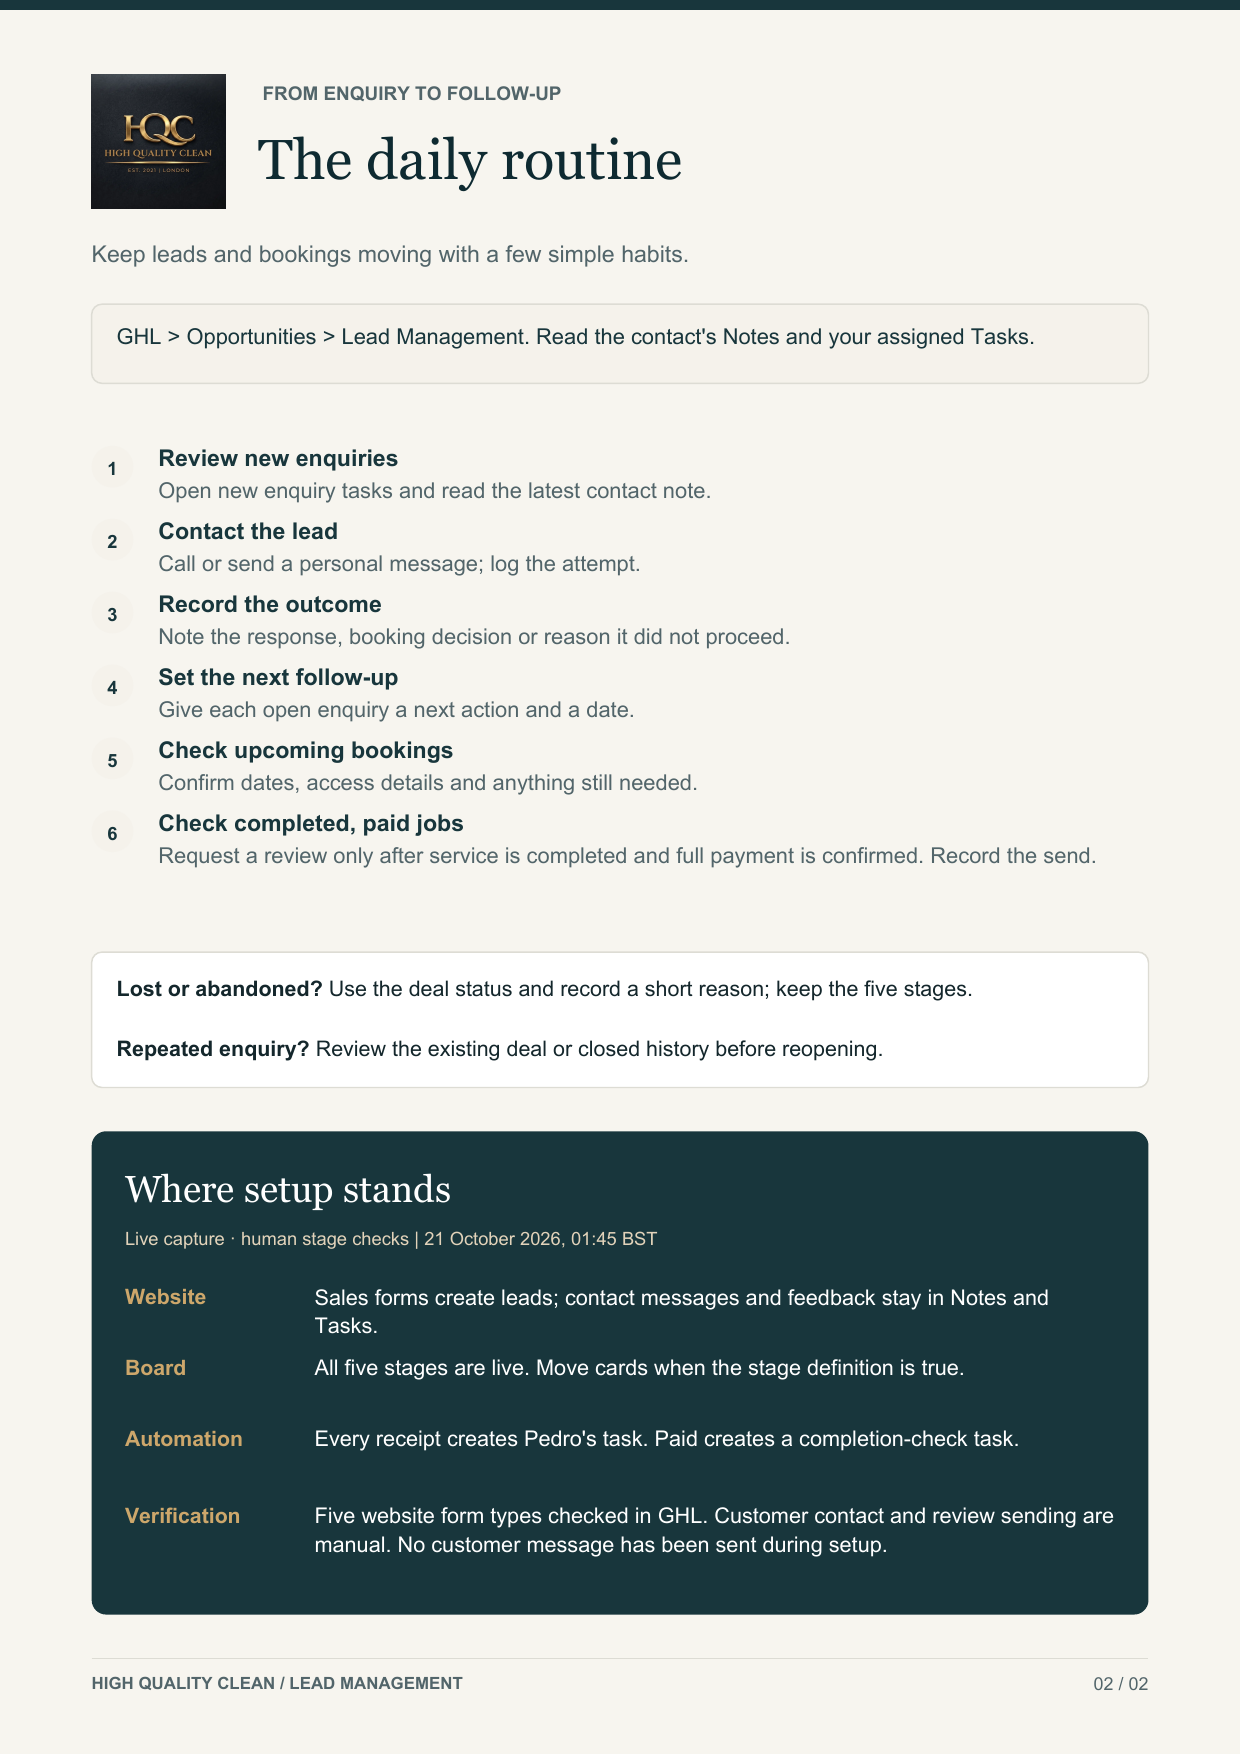
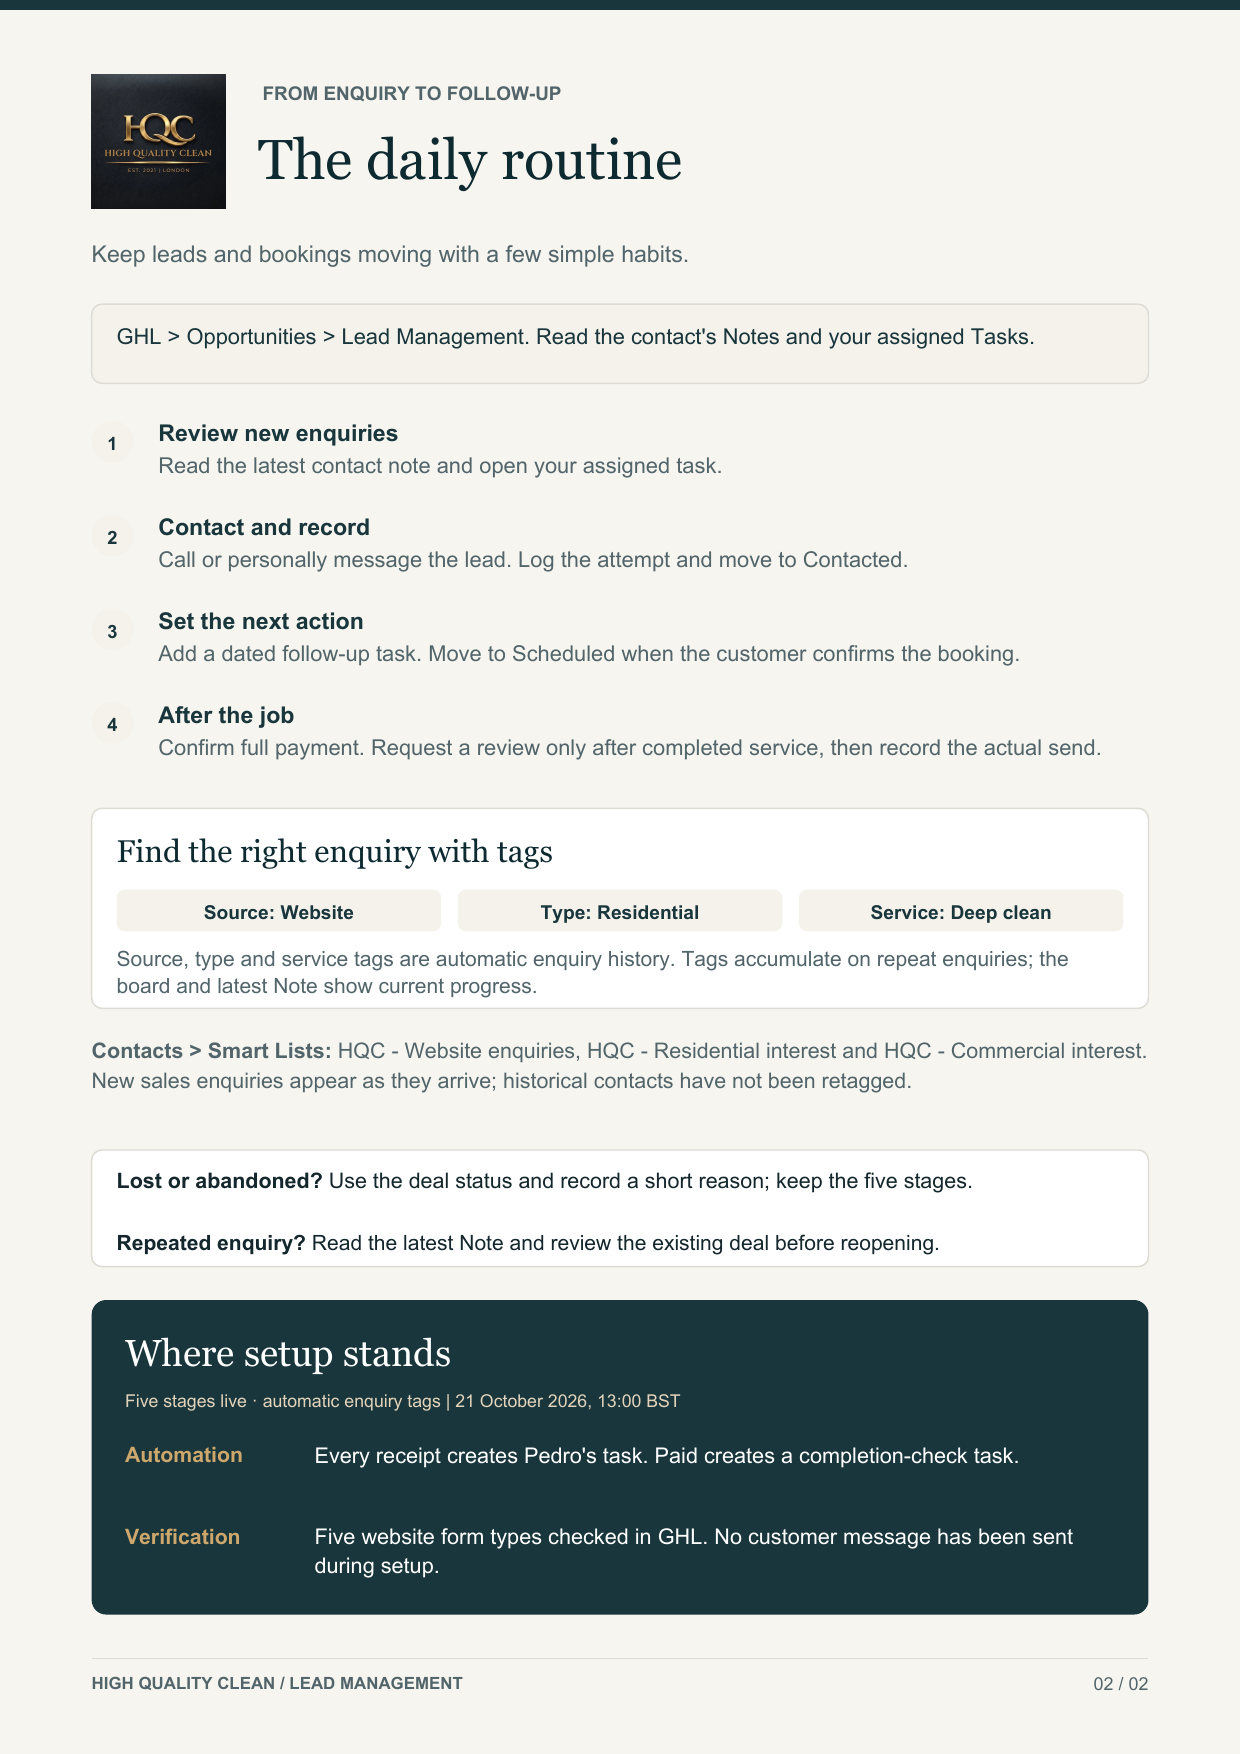
Document verified enquiry tags and Pedro saved views

diff --git a/scripts/reports/hqc_lead_management_guide_20261021.py b/scripts/reports/hqc_lead_management_guide_20261021.py
@@ -60,8 +60,8 @@ RULE = HexColor("#dddcd4")
 WIDTH, HEIGHT = A4
 MARGIN = 44
 CONTENT = WIDTH - 2 * MARGIN
-STATUS = "Live capture · human stage checks"
-SNAPSHOT = "21 October 2026, 01:45 BST"
+STATUS = "Five stages live · automatic enquiry tags"
+SNAPSHOT = "21 October 2026, 13:00 BST"
 
 STAGES = [
     ("New Lead", "New Lead", "A new enquiry needs attention. Check the details and record who will follow up."),
@@ -72,20 +72,15 @@ STAGES = [
 ]
 
 ROUTINE = [
-    ("Review new enquiries", "Open new enquiry tasks and read the latest contact note."),
-    ("Contact the lead", "Call or send a personal message; log the attempt."),
-    ("Record the outcome", "Note the response, booking decision or reason it did not proceed."),
-    ("Set the next follow-up", "Give each open enquiry a next action and a date."),
-    ("Check upcoming bookings", "Confirm dates, access details and anything still needed."),
-    ("Check completed, paid jobs", "Request a review only after service is completed and full payment is confirmed. Record the send."),
+    ("Review new enquiries", "Read the latest contact note and open your assigned task."),
+    ("Contact and record", "Call or personally message the lead. Log the attempt and move to Contacted."),
+    ("Set the next action", "Add a dated follow-up task. Move to Scheduled when the customer confirms the booking."),
+    ("After the job", "Confirm full payment. Request a review only after completed service, then record the actual send."),
 ]
 
-# Fresh provider UI/API readback and reserved-fixture public website checks.
 SETUP = [
-    ("Website", "Sales forms create leads; contact messages and feedback stay in Notes and Tasks."),
-    ("Board", "All five stages are live. Move cards when the stage definition is true."),
     ("Automation", "Every receipt creates Pedro's task. Paid creates a completion-check task."),
-    ("Verification", "Five website form types checked in GHL. Customer contact and review sending are manual. No customer message has been sent during setup."),
+    ("Verification", "Five website form types checked in GHL. No customer message has been sent during setup."),
 ]
 
 LAYOUT_CHECKS: list[dict] = []
@@ -225,29 +220,42 @@ def page_two(c):
               MARGIN+12, 155, CONTENT-24, size=10.5, leading=14,
               colour=NAVY, max_height=29)
 
-    top = 213
+    top = 201
     for i, (title, action) in enumerate(ROUTINE):
         number(c, str(i+1), MARGIN, top+1, 20, filled=False)
         paragraph(c, title, 76, top, CONTENT-32, size=11.1, leading=14,
                   font="BodyBold", colour=NAVY, max_height=15)
         paragraph(c, action, 76, top+16, CONTENT-32, size=10.5, leading=14,
                   colour=SLATE, max_height=29)
-        top += 35 if i < 5 else 49
+        top += 45
 
-    rect(c, MARGIN, 457, CONTENT, 65, white, radius=5, stroke=RULE)
+    rect(c, MARGIN, 388, CONTENT, 96, white, radius=5, stroke=RULE)
+    paragraph(c, "Find the right enquiry with tags", MARGIN+12, 399, CONTENT-24,
+              size=15, leading=19, font="Display", colour=MIDNIGHT, max_height=20)
+    chip_gap = 8
+    chip_width = (CONTENT-24-2*chip_gap)/3
+    for i, label in enumerate(["Source: Website", "Type: Residential", "Service: Deep clean"]):
+        x = MARGIN+12+i*(chip_width+chip_gap)
+        rect(c, x, 427, chip_width, 20, MIST, radius=4)
+        paragraph(c, label, x+5, 432, chip_width-10, size=9.2, leading=11,
+                  font="BodyBold", colour=NAVY, max_height=12, align=TA_CENTER)
+    paragraph(c, "Source, type and service tags are automatic enquiry history. Tags accumulate on repeat enquiries; the board and latest Note show current progress.",
+              MARGIN+12, 454, CONTENT-24, size=10.1, leading=13, colour=SLATE, max_height=27)
+    paragraph(c, "<b>Contacts &gt; Smart Lists:</b> HQC - Website enquiries, HQC - Residential interest and HQC - Commercial interest. New sales enquiries appear as they arrive; historical contacts have not been retagged.",
+              MARGIN, 498, CONTENT, size=10.3, leading=14, colour=SLATE, max_height=43)
+
+    rect(c, MARGIN, 552, CONTENT, 56, white, radius=5, stroke=RULE)
     paragraph(c, "<b>Lost or abandoned?</b> Use the deal status and record a short reason; keep the five stages.",
-              MARGIN+12, 468, CONTENT-24, size=10.3, leading=14, max_height=29)
-    paragraph(c, "<b>Repeated enquiry?</b> Review the existing deal or closed history before reopening.",
-              MARGIN+12, 497, CONTENT-24, size=10.3, leading=14, max_height=15)
+              MARGIN+12, 560, CONTENT-24, size=10.3, leading=14, max_height=29)
+    paragraph(c, "<b>Repeated enquiry?</b> Read the latest Note and review the existing deal before reopening.",
+              MARGIN+12, 590, CONTENT-24, size=10.1, leading=13, max_height=14)
 
-    rect(c, MARGIN, 543, CONTENT, 232, NAVY, radius=7)
-    paragraph(c, "Where setup stands", MARGIN+16, 559, CONTENT-32,
+    rect(c, MARGIN, 624, CONTENT, 151, NAVY, radius=7)
+    paragraph(c, "Where setup stands", MARGIN+16, 638, CONTENT-32,
               size=18, leading=23, font="Display", colour=white, max_height=24)
-    paragraph(c, f"{STATUS}  |  {SNAPSHOT}", MARGIN+16, 589, CONTENT-32,
-              size=8.8, leading=12, colour=HexColor("#e2d3ba"), max_height=13)
-    row_tops = [616, 650, 684, 721]
-    row_heights = [29, 29, 29, 42]
-    for (label, description), top, height in zip(SETUP, row_tops, row_heights):
+    paragraph(c, f"{STATUS}  |  {SNAPSHOT}", MARGIN+16, 667, CONTENT-32,
+              size=8.5, leading=11, colour=HexColor("#e2d3ba"), max_height=12)
+    for (label, description), top, height in zip(SETUP, [692, 731], [29, 29]):
         paragraph(c, label, MARGIN+16, top, 85, size=10.2, leading=13.5,
                   font="BodyBold", colour=GOLD, max_height=15)
         paragraph(c, description, MARGIN+107, top, CONTENT-123,
@@ -292,9 +300,9 @@ def validate(pngs: list[Path]) -> dict:
                          "Full payment has been received and confirmed", "A deposit does not count",
                          "an automatic form reply does not count", "a requested service date does not count",
                          "a review request has actually been sent", "Repeated enquiry?",
-                         "Lost or abandoned?", "All five stages are live", "Every receipt creates Pedro",
+                         "Lost or abandoned?", "automatic enquiry tags", "Every receipt creates Pedro",
                          "Paid creates a completion-check task", "Five website form types checked in GHL",
-                         "No customer message has been sent", SNAPSHOT]:
+                         "No customer message has been sent", "Tags accumulate on repeat enquiries", "HQC - Commercial interest", SNAPSHOT]:
             assert required in flattened, f"Missing required wording: {required}"
         for forbidden in ["59972c9", "webhook", "token", "pipeline ID", "exactly-once", "all live", "@", "07427"]:
             assert forbidden.lower() not in full_text.lower(), f"Unwanted detail: {forbidden}"

diff --git a/docs/plans/hqc-lead-management-2026-10-21.md b/docs/plans/hqc-lead-management-2026-10-21.md
@@ -50,10 +50,11 @@ Workflow `57dd228b-68a0-46eb-8203-dccdbdce19d0`,
 2. Save the enquiry in a contact note, including source, dates and form details.
 3. Create a same-day review/response task assigned to Pedro.
 4. Allow only `quote`, `quick-form` and `discount` into the sales branch.
-5. Format today's date as ISO; create a Lead Management / New Lead opportunity
+5. Apply the server-owned source, type and service classification tags.
+6. Format today's date as ISO; create a Lead Management / New Lead opportunity
    with next-action text and date. Native duplicate protection remains enabled.
-6. Wait one minute for the new opportunity to become searchable.
-7. Find the most recent open Lead Management opportunity and assign Pedro only
+7. Wait one minute for the new opportunity to become searchable.
+8. Find the most recent open Lead Management opportunity and assign Pedro only
    when it has no owner. Preserve existing owners and progress.
 
 Contact messages and private feedback stop after the note and task; they do not
@@ -155,3 +156,68 @@ Customer message history is unchanged.
 Private raw payloads, receiver URLs and provider snapshots are stored outside
 the repository. They must not be committed. The Pedro PDF contains no customer
 data, credentials or provider identifiers.
+
+
+## Automatic classification extension - 21 October, midday
+
+Website code `254b63d4015bdc9c6566124745339f8fa5570f0a` was pushed to main
+and read back on successful Cloudflare deployment
+`6534896c-13a5-43b1-9a6a-24dc25a66eab`. The intake is published v21.
+Its dynamic Add Contact Tag action runs inside the sales-only branch, before
+opportunity creation, using the inbound `classification_tags` CSV. Native GHL
+storage was read back as separate tag names, rather than one comma-containing tag.
+
+Classification is computed after input normalization from fixed service aliases
+and route membership. Submitted tag fields are discarded. Unknown or conflicting
+route/service pairs are unconfirmed; no free-text inference is used. Existing
+HTTP acceptance/rejection behavior and webhook bindings are unchanged.
+
+The 22 new tag definitions use the `hqc - ` namespace:
+
+- Source: website; discount offer (discount enquiries also retain website).
+- Type: residential, commercial, property, complex or unconfirmed.
+- Service: regular cleaning, signature cleaning, wellness, deep clean, move in,
+  end of tenancy, post construction, office, commercial, communal, property
+  portfolio, airbnb, move in out, assessment or unconfirmed.
+
+These are additive contact enquiry history. Multiple type or service tags can
+coexist after repeat enquiries. Use the latest Note and current opportunity for
+current intent/progress, and a dated Task for follow-up. No stage tags were added.
+Historical contacts have not been retagged or migrated.
+
+Three saved Contacts > Smart Lists use AND filters, exclude
+`hqc-isolated-sales-test`, and are available to Pedro:
+
+| List | Required history tags |
+| --- | --- |
+| HQC - Website enquiries | hqc - source - website |
+| HQC - Residential interest | Website plus hqc - type - residential |
+| HQC - Commercial interest | Website plus hqc - type - commercial |
+
+All 24 published workflow trigger graphs were inspected. The existing tag-triggered
+workflows require specific legacy stage/customer tags; the new namespace does not
+match those triggers. Legacy definitions were preserved. Customer contact and
+review sending remain manual.
+
+Six public submissions on the reserved DND fixture verified residential quote,
+commercial quick form, discount, contact, feedback and conflicting route/service.
+The first three stored expected classifications; contact and feedback added
+Notes/Tasks without sales tags or deals. The conflict added unconfirmed tags.
+Sequential sales repeats retained the existing open opportunity and Pedro owner.
+The fixture's complete message history showed zero external messages before and
+after the run; only opportunity activity records were added.
+
+Cleanup completed seven synthetic tasks, removed the one newly created synthetic
+deal, restored the fixture phone and tags, retained seven audit notes, and verified
+all 47 baseline opportunities plus every pipeline and other workflow unchanged.
+No real customer records were used for the submissions.
+
+Local validation: 34 submission tests, one real Cloudflare worker test, form
+routing verification, seven analytics tests on the classification change, build
+and whitespace checks passed. The independent review's route-confidence P2 was
+reproduced before fixing and covered by regression tests.
+
+The refreshed two-page guide includes the tag examples, saved-list names, daily
+routine and unchanged human stage checks. Pedro's first genuine enquiry response
+and recorded follow-up remain the business outcome gate; Jack owns the handover.
+The guide is prepared for review and has not been sent to Pedro.
